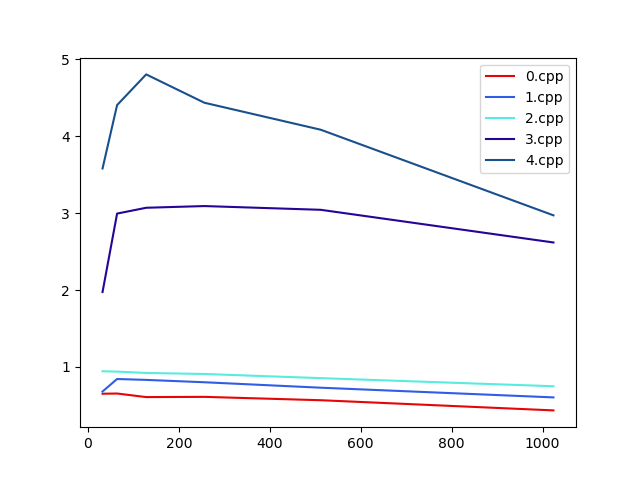
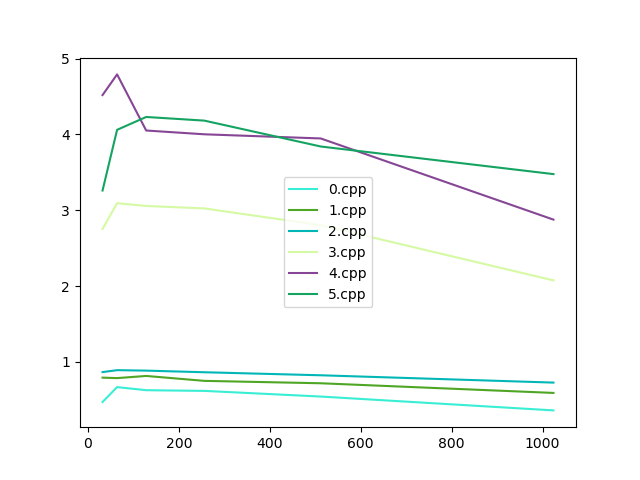
fix

diff --git a/src/x86/5.cpp b/src/x86/5.cpp
@@ -1,0 +1,94 @@
+
+#include "inc.h"
+
+#include <mmintrin.h>
+#include <xmmintrin.h> // SSE
+#include <pmmintrin.h> // SSE2
+#include <emmintrin.h> // SSE3
+
+#include <algorithm>
+
+#define in_k 128
+#define in_m 128
+
+typedef union
+{
+    __m128 v;
+    float d[4];
+} vec2f_t;
+
+void add_dot_4x4_reg_reduce_k(float *a, float *b, float *c, int m, int n, int k)
+{
+
+    vec2f_t c_0_vreg, c_1_vreg, c_2_vreg, c_3_vreg,
+        a_p0_vreg, a_p1_vreg, a_p2_vreg, a_p3_vreg,
+        b_p_vreg;
+
+    float *a_p0_pntr, *a_p1_pntr, *a_p2_pntr, *a_p3_pntr;
+
+    a_p0_pntr = &A(0, 0);
+    a_p1_pntr = &A(1, 0);
+    a_p2_pntr = &A(2, 0);
+    a_p3_pntr = &A(3, 0);
+
+    c_0_vreg.v = _mm_setzero_ps();
+    c_1_vreg.v = _mm_setzero_ps();
+    c_2_vreg.v = _mm_setzero_ps();
+    c_3_vreg.v = _mm_setzero_ps();
+
+    for (int i = 0; i < k; i++)
+    {
+        b_p_vreg.v = _mm_load_ps((float *)&B(i, 0));
+
+        a_p0_vreg.v = _mm_load1_ps((float *)a_p0_pntr++); /* load and duplicate */
+        c_0_vreg.v += a_p0_vreg.v * b_p_vreg.v;
+
+        a_p1_vreg.v = _mm_load1_ps((float *)a_p1_pntr++); /* load and duplicate */
+        c_1_vreg.v += a_p1_vreg.v * b_p_vreg.v;
+
+        a_p2_vreg.v = _mm_load1_ps((float *)a_p2_pntr++); /* load and duplicate */
+        c_2_vreg.v += a_p2_vreg.v * b_p_vreg.v;
+
+        a_p3_vreg.v = _mm_load1_ps((float *)a_p3_pntr++); /* load and duplicate */
+        c_3_vreg.v += a_p3_vreg.v * b_p_vreg.v;
+    }
+
+    C(0, 0) += c_0_vreg.d[0];
+    C(0, 1) += c_0_vreg.d[1];
+    C(0, 2) += c_0_vreg.d[2];
+    C(0, 3) += c_0_vreg.d[3];
+
+    C(1, 0) += c_1_vreg.d[0];
+    C(1, 1) += c_1_vreg.d[1];
+    C(1, 2) += c_1_vreg.d[2];
+    C(1, 3) += c_1_vreg.d[3];
+
+    C(2, 0) += c_2_vreg.d[0];
+    C(2, 1) += c_2_vreg.d[1];
+    C(2, 2) += c_2_vreg.d[2];
+    C(2, 3) += c_2_vreg.d[3];
+
+    C(3, 0) += c_3_vreg.d[0];
+    C(3, 1) += c_3_vreg.d[1];
+    C(3, 2) += c_3_vreg.d[2];
+    C(3, 3) += c_3_vreg.d[3];
+}
+
+void matmul(float *a, float *b, float *c, int m, int n, int k)
+{
+    for (int p = 0; p < k; p += in_k)
+    {
+        int partial_k = std::min({in_k, k - p});
+        // for (int pi = 0; pi < m; pi += in_m)
+        // {
+        //     int partial_m = std::min({in_m, m - pi});
+            for (int j = 0; j < n; j += 4)
+            {
+                for (int i = 0; i < m; i += 4)
+                {
+                    add_dot_4x4_reg_reduce_k(&(A(i, 0)), &(B(0, j)), &(C(i, j)), m, n, partial_k);
+                }
+            }
+        // }
+    }
+}

diff --git a/src/x86/plot.py b/src/x86/plot.py
@@ -22,14 +22,14 @@ bench_res = defaultdict(list)
 
 for file in files:
     print(f"----------{file}---------------")
-    if file in {"main.cpp", "eval.cpp"}:
+    if file in {"perf.cpp", "eval.cpp"}:
         continue
     os.system("make target={}".format(file.split(".cpp")[0]))
     res = exec_cmd("./main")
     for item in res:
         bench_res[file] += [float(item.split(":")[-1])]
 
-x = [2**(i) for i in range(5, 11)] 
+x = [32*(i+1) for i in range(32)] 
 
 fig, ax = plt.subplots()
 for key, value in bench_res.items():

diff --git a/src/x86/perf.cpp b/src/x86/perf.cpp
@@ -7,7 +7,7 @@ using namespace std;
 
 int main()
 {
-    for (int mkn = 32; mkn <= 1024; mkn *= 2)
+    for (int mkn = 32; mkn <= 1024; mkn += 32)
     {
         float *a, *b, *c;
         a = new float[mkn * mkn];
